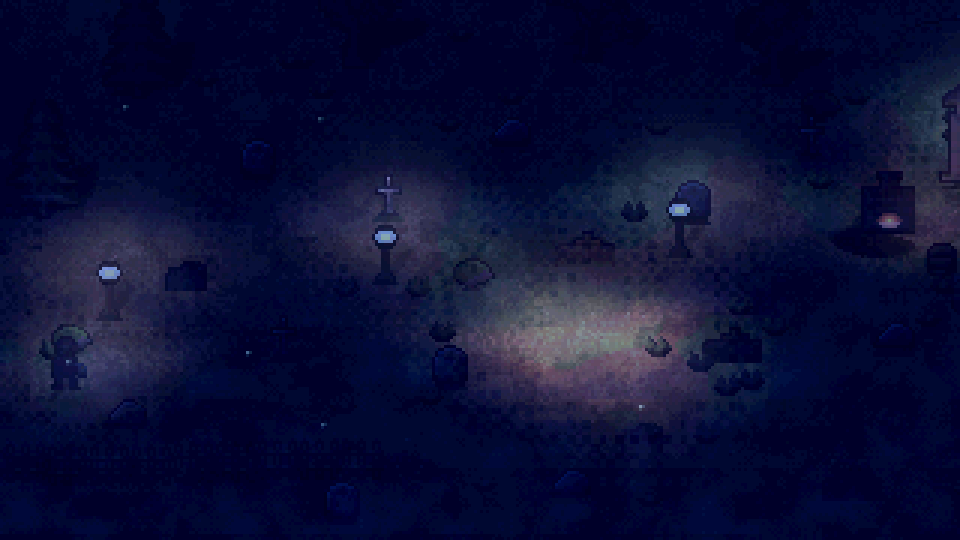
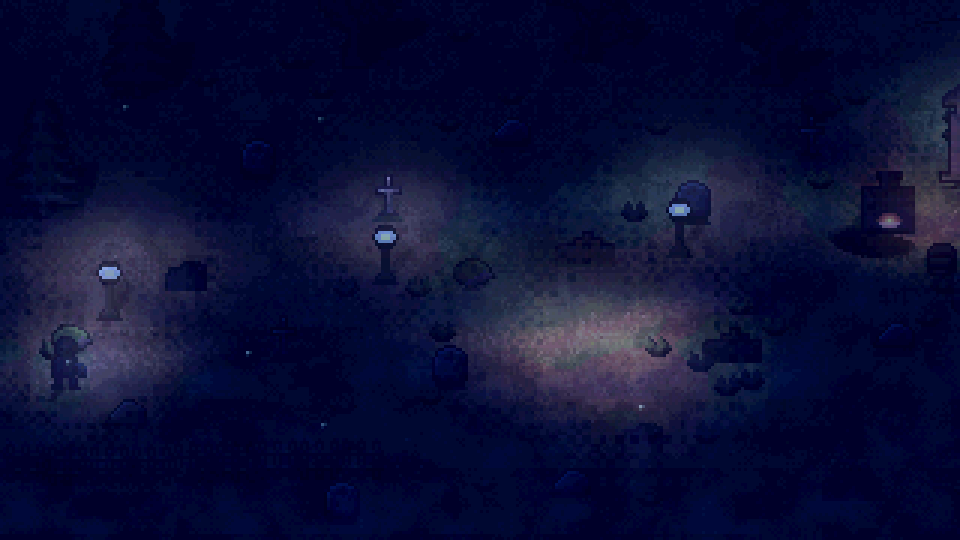
shadow-prototype: anchor projected shadows to the base + in-buffer state warnings
- projectSlot: footprint columns are filled down to the object's ground
  line, so a raking (morning/east) sun can no longer leave a lit wedge
  between the base and the thrown silhouette slab — the 'floating decal'
  read at some times of day. Afternoon frames unchanged (skirt is a no-op
  where coverage already reaches the base).
- renderer: while selfShadow or a shadow-construction override is active,
  a warning line is drawn into the pixel buffer so demo states are
  unmistakable in any screenshot or crop.
- headless: probe shots 22-29 (day/morning chapel, self-shadow pairs,
  sun-only, mask view) covering the reported states.
- BUILD stamp r4; docs gallery refreshed.

diff --git a/shadow-prototype/src/shadows.js b/shadow-prototype/src/shadows.js
@@ -506,6 +506,25 @@ export class ShadowSystem {
         }
       }
     }
+    // Base anchoring: every column of the footprint must keep shadow contact
+    // with the object's ground line. Without this, a raking sun leaves a lit
+    // wedge between the base and the thrown silhouette slab, and the shadow
+    // reads as a decal floating beside the object instead of falling from it.
+    {
+      const footHalf = Math.max(6, w * 0.5 - 2);
+      const anchorY = Math.min(y1, Math.round(baseSY));
+      const lx = Math.max(x0, Math.round(baseSX - footHalf));
+      const rx = Math.min(x1, Math.round(baseSX + footHalf));
+      for (let i = 0; i < nT; i++) {
+        const sx = touched[i];
+        if (sx < lx || sx > rx) continue;
+        const ya = Math.max(y0, lastY[sx]);
+        for (let yy = ya; yy <= anchorY; yy++) {
+          const p = yy * W + sx;
+          target[p] += alpha * (1 - target[p]);
+        }
+      }
+    }
     for (let i = 0; i < nT; i++) lastY[touched[i]] = -1;
 
     // debug quad: the sheared footprint parallelogram

diff --git a/shadow-prototype/src/renderer.js b/shadow-prototype/src/renderer.js
@@ -697,6 +697,17 @@ export class Renderer {
   }
 
   drawDebug() {
+    // State warnings baked into the pixel buffer: toggles that re-create the
+    // original bugs must be visible in any screenshot, crop or capture.
+    let wy = 3;
+    if (this.settings.selfShadow) {
+      drawText(this.out, 'SELF-SHADOW ON: CASTERS DARKEN THEMSELVES (DEMO TOGGLE IN PANEL)', 3, wy, [255, 110, 80], 240);
+      wy += 7;
+    }
+    if (this.settings.shadowStyle && this.settings.shadowStyle !== 'auto') {
+      drawText(this.out, `SHADOW CONSTRUCTION OVERRIDE: ${this.settings.shadowStyle.toUpperCase()} (AUTO = PER-ASSET)`, 3, wy, [255, 190, 80], 240);
+      wy += 7;
+    }
     const dbg = this.settings.debug;
     const s = this.scene;
     const out = this.out;

diff --git a/shadow-prototype/src/main.js b/shadow-prototype/src/main.js
@@ -6,7 +6,7 @@
  * per-pixel work in the JavaScript passes — there is no GPU in this prototype.
  */
 // Stamp shown in the HUD so a stale (cached) page is recognisable at a glance.
-const BUILD = 'r3 · projection + self-shadow fix';
+const BUILD = 'r4 · grounded projection + state warnings';
 
 
 import { buildAssets } from './sprites.js';

diff --git a/shadow-prototype/README.md b/shadow-prototype/README.md
@@ -92,7 +92,10 @@ toggleable in the panel so the difference stays inspectable:
   flattening the whole roof into one edge. A small per-column north spread
   (`project depth`) gives billboards a footprint so a due-east sun does not
   collapse them to a 1-pixel line, and a per-column fill bridges vertical
-  gaps. The chapel and all trees use it; force it on everything with the
+  gaps. Because a raking sun can otherwise leave a lit wedge between the
+  base and the thrown slab, every footprint column is additionally anchored
+  to the object's ground line, so the shadow always reads as falling *from*
+  the base. The chapel and all trees use it; force it on everything with the
   *shadow construction* select to see why graves do not need it.
 - **Self-shadow exclusion.** Before the object pass, each visible caster's
   own slots are re-rasterised into a private coverage buffer clipped to the
@@ -100,7 +103,9 @@ toggleable in the panel so the difference stays inspectable:
   divided back out (`others = 1 − (1 − total)/(1 − own)`), so the drop shadow
   only darkens the ground and whatever stands in it — never the caster that
   threw it. The ground keeps the full mask. `self shadow` in the panel
-  re-enables the naive behaviour for comparison.
+  re-enables the naive behaviour for comparison — while it is on, a red
+  warning line is drawn into the pixel buffer so the demo state is
+  unmistakable in any screenshot.
 
 `shadow construction: auto` (the default) honours each asset's declared style;
 `blob` and `project` override globally. The inspector's slot readout shows
